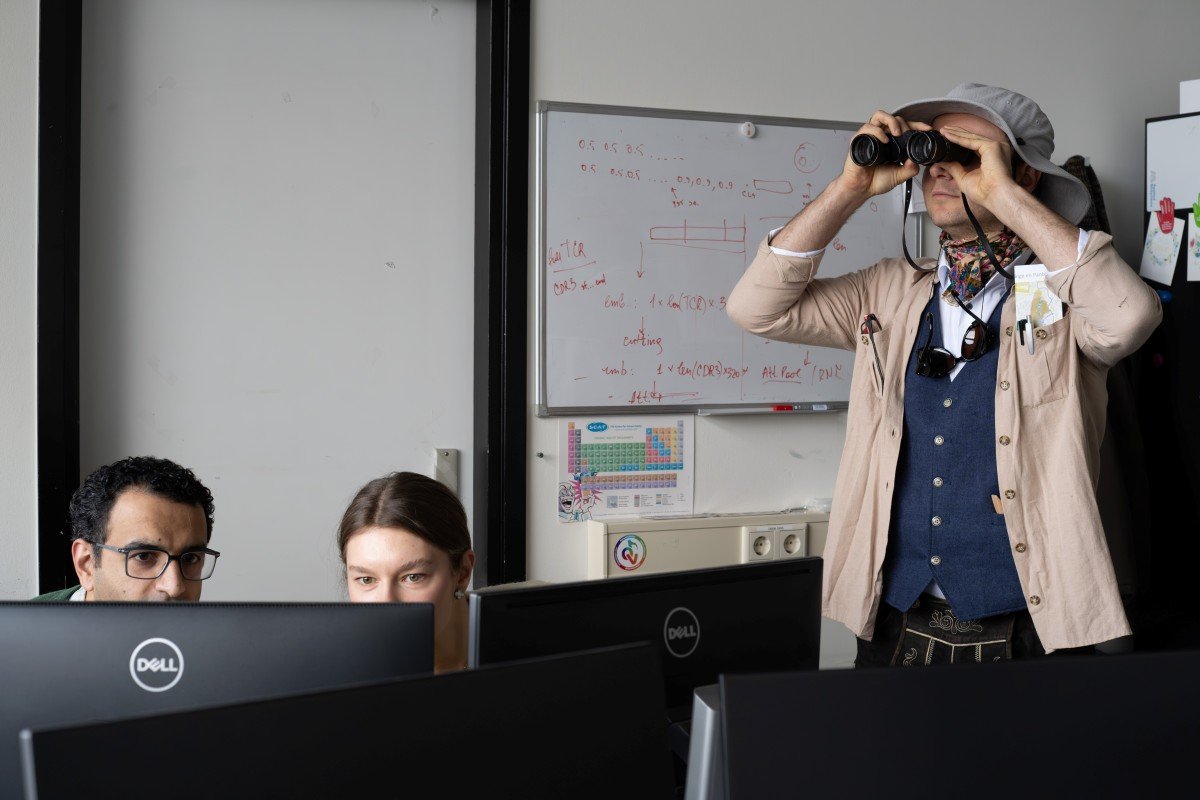
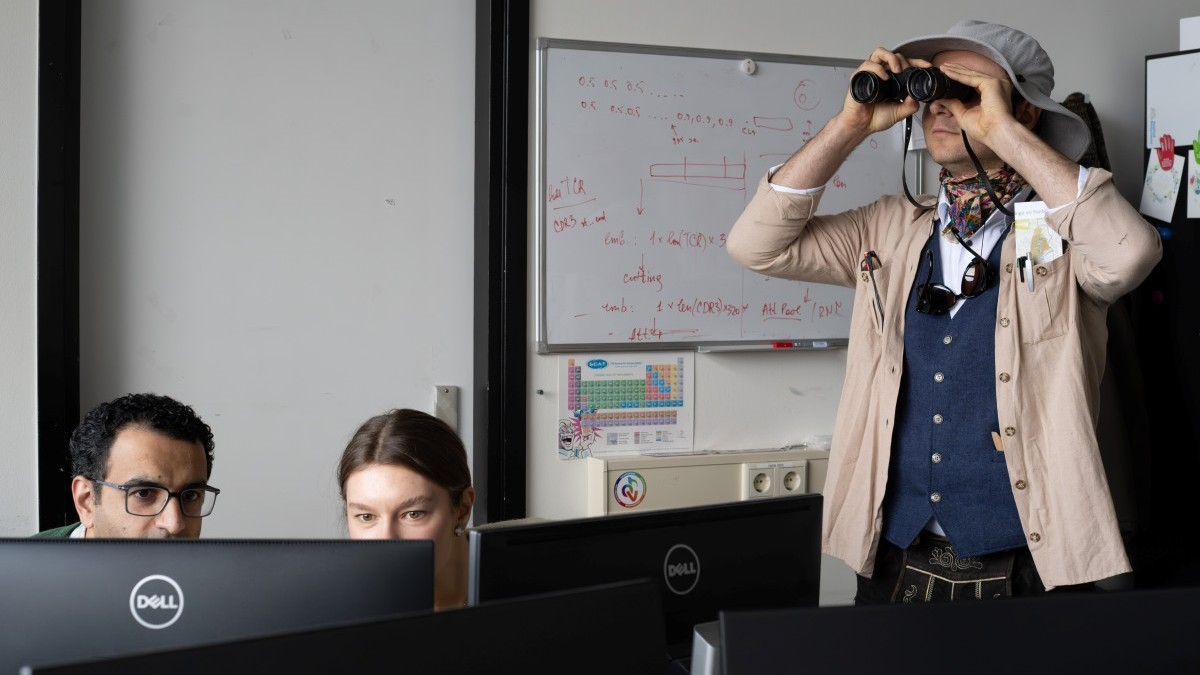
Updating home page and photos

diff --git a/_layouts/home.html b/_layouts/home.html
@@ -3,9 +3,9 @@ layout: default
 ---
 <section class="hero">
   <div class="container">
-    <h1>Computational Mass Spectrometry Meets Intelligent Automation</h1>
-    <p class="lead">The Sinitcyn Lab fuses algorithm design, large-scale data analysis, and frontier proteomics to
-      decode molecular systems.</p>
+    <h1>Computational Biomolecular Mass Spectrometry Group</h1>
+    <p class="lead">Bridging Machine Learning, Computer and Life Sciences. We fuse algorithm design, large-scale data
+      analysis, and frontier proteomics to decode molecular systems.</p>
     <a class="cta" href="{{ '/publications/' | relative_url }}">Explore our work</a>
   </div>
 </section>
@@ -13,24 +13,36 @@ layout: default
 <section class="highlights">
   <div class="container">
     <div class="highlight">
-      <h2>What We Do</h2>
-      <p>We engineer AI-powered pipelines that make data-independent acquisition reproducible, scalable, and
-        interpretable. Our team delivers open-source software, benchmark datasets, and collaborative innovation across
-        academia and industry.</p>
+      <h2>Our Mission</h2>
+      <p>Modern biology generates vast amounts of data, yet interpreting it remains a bottleneck. We believe that domain
+        knowledge is crucial for making sense of this data. Our group addresses the unique challenges of biological
+        data - noise, sparsity, and complexity - by fusing recent advances in machine learning with practical
+        applications.
+      </p>
+      <p style="margin-top: 1rem;">We aim to develop <strong>explainable models</strong> that generalize well, helping
+        us better understand and predict stochastic biological processes at the molecular level.</p>
     </div>
     <div class="highlight">
-      <h2>Core Expertise</h2>
+      <h2>Research Areas</h2>
       <ul>
-        <li>Machine learning for peptide-spectrum interpretation</li>
-        <li>High-throughput, quantitative DIA workflows</li>
-        <li>Cloud-native mass spectrometry infrastructure</li>
-        <li>Explainable models for biological discovery</li>
+        <li><strong>Computational Mass Spectrometry:</strong> Developing statistical tools for shotgun proteomics and
+          Data-Independent Acquisition (DIA).</li>
+        <li><strong>Predictive Modeling:</strong> forecasting peptide behavior (digestion, fragmentation) to sequence
+          amino acids and study the entire proteome.</li>
+        <li><strong>Trustworthy AI:</strong> Accurately estimating false discovery rates and defining limits of
+          applicability for AI models.</li>
+        <li><strong>Generative Approaches:</strong> Exploring reinforcement learning and autoencoders for generating
+          decoy peptides and resolving complex signals.</li>
       </ul>
     </div>
     <div class="highlight">
-      <h2>Collaborate With Us</h2>
-      <p>We partner with clinicians, instrument vendors, and computational groups. Interested in pushing the boundaries
-        of proteomics? <a href="{{ '/contact/' | relative_url }}">Get in touch</a>.</p>
+      <h2>Community & Collaboration</h2>
+      <p>We are dedicated to building a computational biology community at <a
+          href="https://www.utrechtsciencepark.nl/en">Utrecht Science Park</a>that connects project ideas,
+        students, and partners from academia and industry. We currently partner with clinicians, instrument vendors,
+        and computer scientists to bridge distinct fields.</p>
+      <p style="margin-top: 1rem;">Interested in pushing the boundaries of proteomics with us? <a
+          href="{{ '/contact/' | relative_url }}">Get in touch</a>.</p>
     </div>
   </div>
 </section>

diff --git a/assets/css/main.css b/assets/css/main.css
@@ -21,8 +21,13 @@ body {
   line-height: 1.6;
 }
 
+img {
+  max-width: 100%;
+  height: auto;
+}
+
 .container {
-  width: min(1100px, 92%);
+  width: min(900px, 92%);
   margin: 0 auto;
 }
 
@@ -178,6 +183,10 @@ body {
 
 .page-content>p {
   max-width: 60ch;
+}
+
+.page-content>p:has(> img) {
+  max-width: 100%;
 }
 
 .site-footer {

diff --git a/members/index.md b/members/index.md
@@ -12,7 +12,7 @@ permalink: /members/
 {% for person in site.data.members.leadership %}
 <div class="member-card" style="display: flex; gap: 1.5rem; margin-bottom: 2rem; align-items: flex-start;">
   <div class="member-photo" style="flex-shrink: 0;">
-    {% if person.photo %}
+    {% if person.photo and person.gdpr_consent %}
       <img src="{{ '/assets/images/photo/' | append: person.photo | relative_url }}" alt="{{ person.name }}" style="width: 150px; height: 150px; object-fit: cover; border-radius: 8px; background-color: #f1f5f9;">
     {% else %}
       <img src="{{ '/assets/images/logo/member-placeholder.svg' | relative_url }}" alt="{{ person.name }}" style="width: 150px; height: 150px; object-fit: cover; border-radius: 8px; background-color: #f1f5f9;">
@@ -41,7 +41,7 @@ permalink: /members/
 {% for person in site.data.members.team %}
 <div class="member-card" style="display: flex; gap: 1.5rem; margin-bottom: 2rem; align-items: flex-start;">
   <div class="member-photo" style="flex-shrink: 0;">
-    {% if person.photo %}
+    {% if person.photo and person.gdpr_consent %}
       <img src="{{ '/assets/images/photo/' | append: person.photo | relative_url }}" alt="{{ person.name }}" style="width: 150px; height: 150px; object-fit: cover; border-radius: 8px; background-color: #f1f5f9;">
     {% else %}
       <img src="{{ '/assets/images/logo/member-placeholder.svg' | relative_url }}" alt="{{ person.name }}" style="width: 150px; height: 150px; object-fit: cover; border-radius: 8px; background-color: #f1f5f9;">
@@ -60,7 +60,7 @@ permalink: /members/
 {% for person in site.data.members.alumni %}
 <div class="member-card" style="display: flex; gap: 1.5rem; margin-bottom: 2rem; align-items: flex-start;">
   <div class="member-photo" style="flex-shrink: 0;">
-    {% if person.photo %}
+    {% if person.photo and person.gdpr_consent %}
       <img src="{{ '/assets/images/photo/' | append: person.photo | relative_url }}" alt="{{ person.name }}" style="width: 150px; height: 150px; object-fit: cover; border-radius: 8px; background-color: #f1f5f9;">
     {% else %}
       <img src="{{ '/assets/images/logo/member-placeholder.svg' | relative_url }}" alt="{{ person.name }}" style="width: 150px; height: 150px; object-fit: cover; border-radius: 8px; background-color: #f1f5f9;">

diff --git a/news/index.md b/news/index.md
@@ -3,12 +3,13 @@ layout: page
 title: News
 permalink: /news/
 ---
-
-Stay up to date with announcements from the Sinitcyn Lab.
+![Sinitcyn Lab News Photo]({{ '/assets/images/photo/news.jpg' | relative_url }}){: style="width: 100%; height: auto; border-radius: 8px; margin-bottom: 2rem;" }
 
 {% for post in site.posts %}
 ### [{{ post.title }}]({{ post.url | relative_url }})
 <small>{{ post.date | date: "%B %d, %Y" }} • {{ post.author }}</small>
 
 {{ post.excerpt }}
+
+{% unless forloop.last %}<hr style="margin: 2rem 0; border: 0; border-top: 1px solid #e2e8f0;">{% endunless %}
 {% endfor %}
